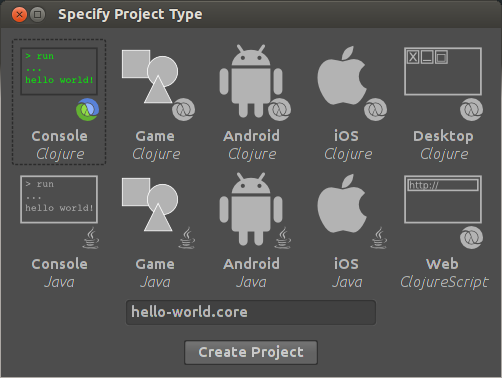
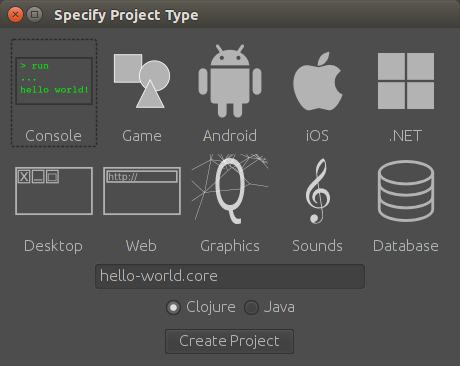
Add new templates screenshot and mention Mono

diff --git a/index.html b/index.html
@@ -53,7 +53,7 @@
     </div>
     <div class='section dark'>
         <div class='step'>ClojureCLR</div>
-        <div class='sectionbody'>With the embedded <a href='https://github.com/kumarshantanu/lein-clr'>lein-clr</a> plugin, building ClojureCLR projects is supported. The built-in .NET template is the easiest way to get started. You are intended to work on Windows with a recent version of the .NET framework. You will also need JDK 7 or above installed and added to the PATH, in order to run Nightcode itself.</div>
+        <div class='sectionbody'>With the embedded <a href='https://github.com/kumarshantanu/lein-clr'>lein-clr</a> plugin, building ClojureCLR projects is supported. The built-in .NET template is the easiest way to get started. It works on Windows with a recent version of the .NET framework, as well as Unix-like systems with Mono. You will also need JDK 7 or above installed and added to the PATH, in order to run Nightcode itself.</div>
     </div>
     <div class='section dark'>
         <div class='step'>Java</div>
